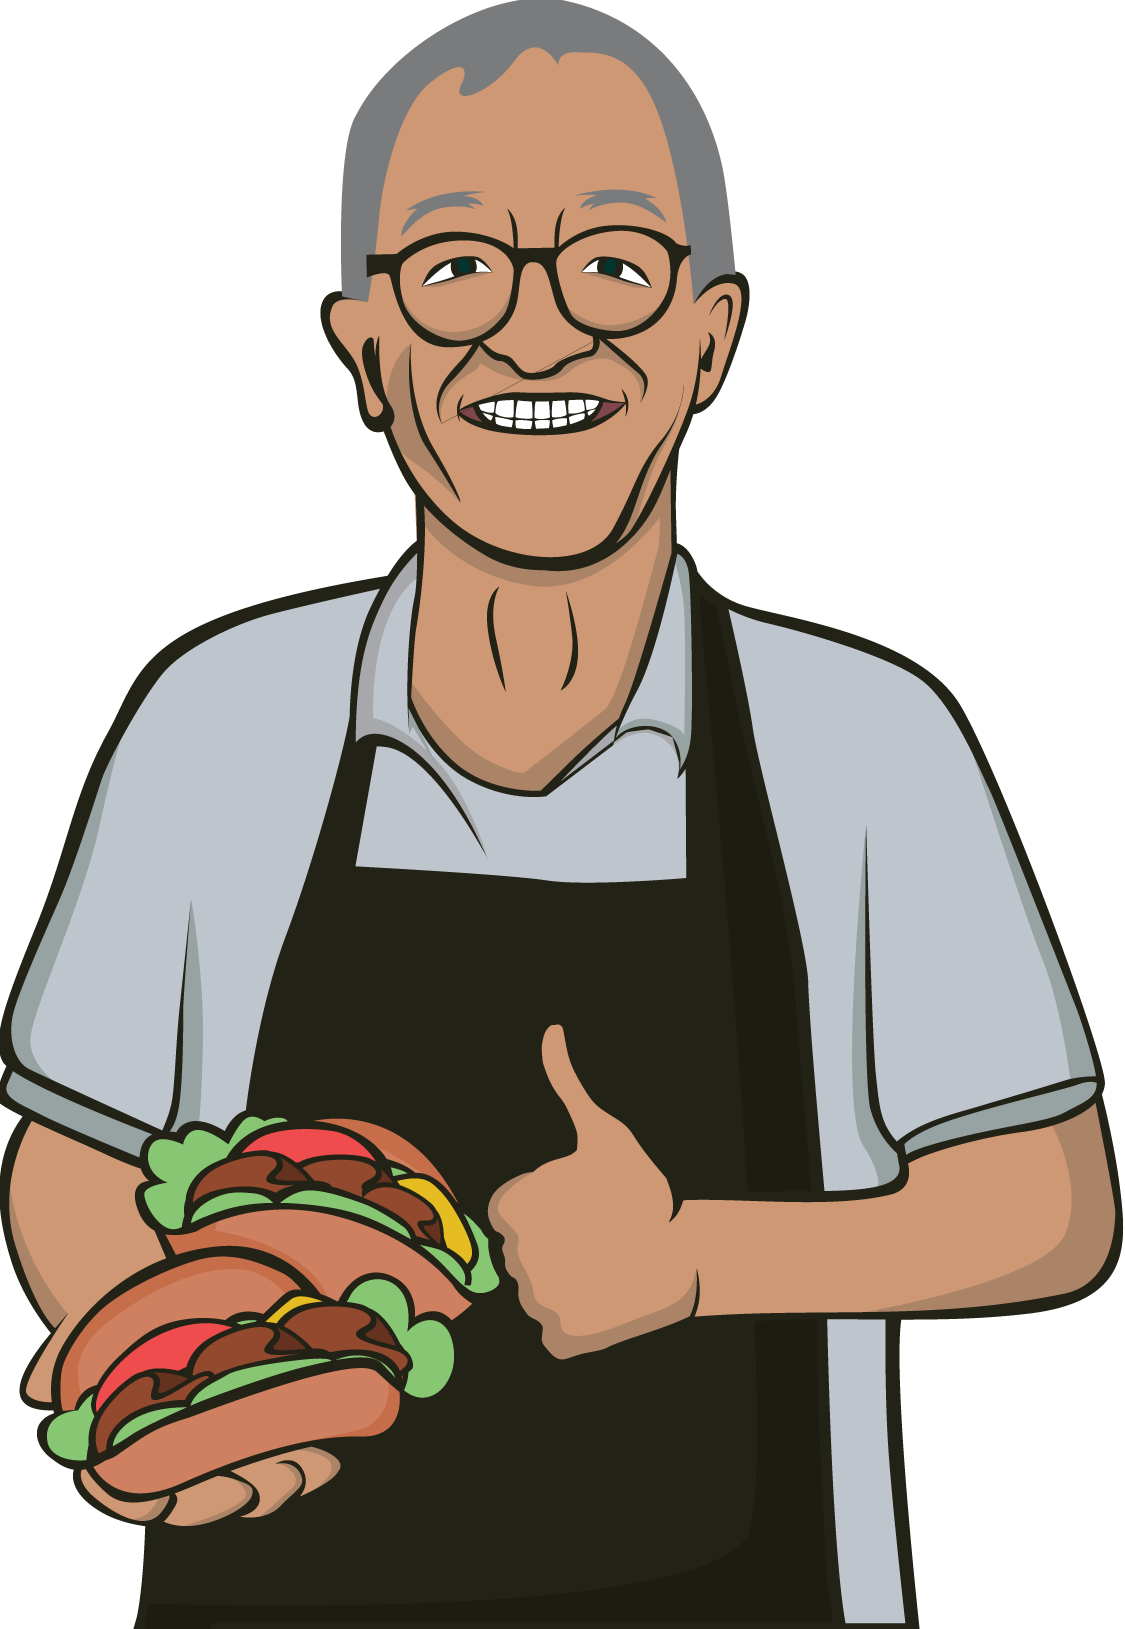
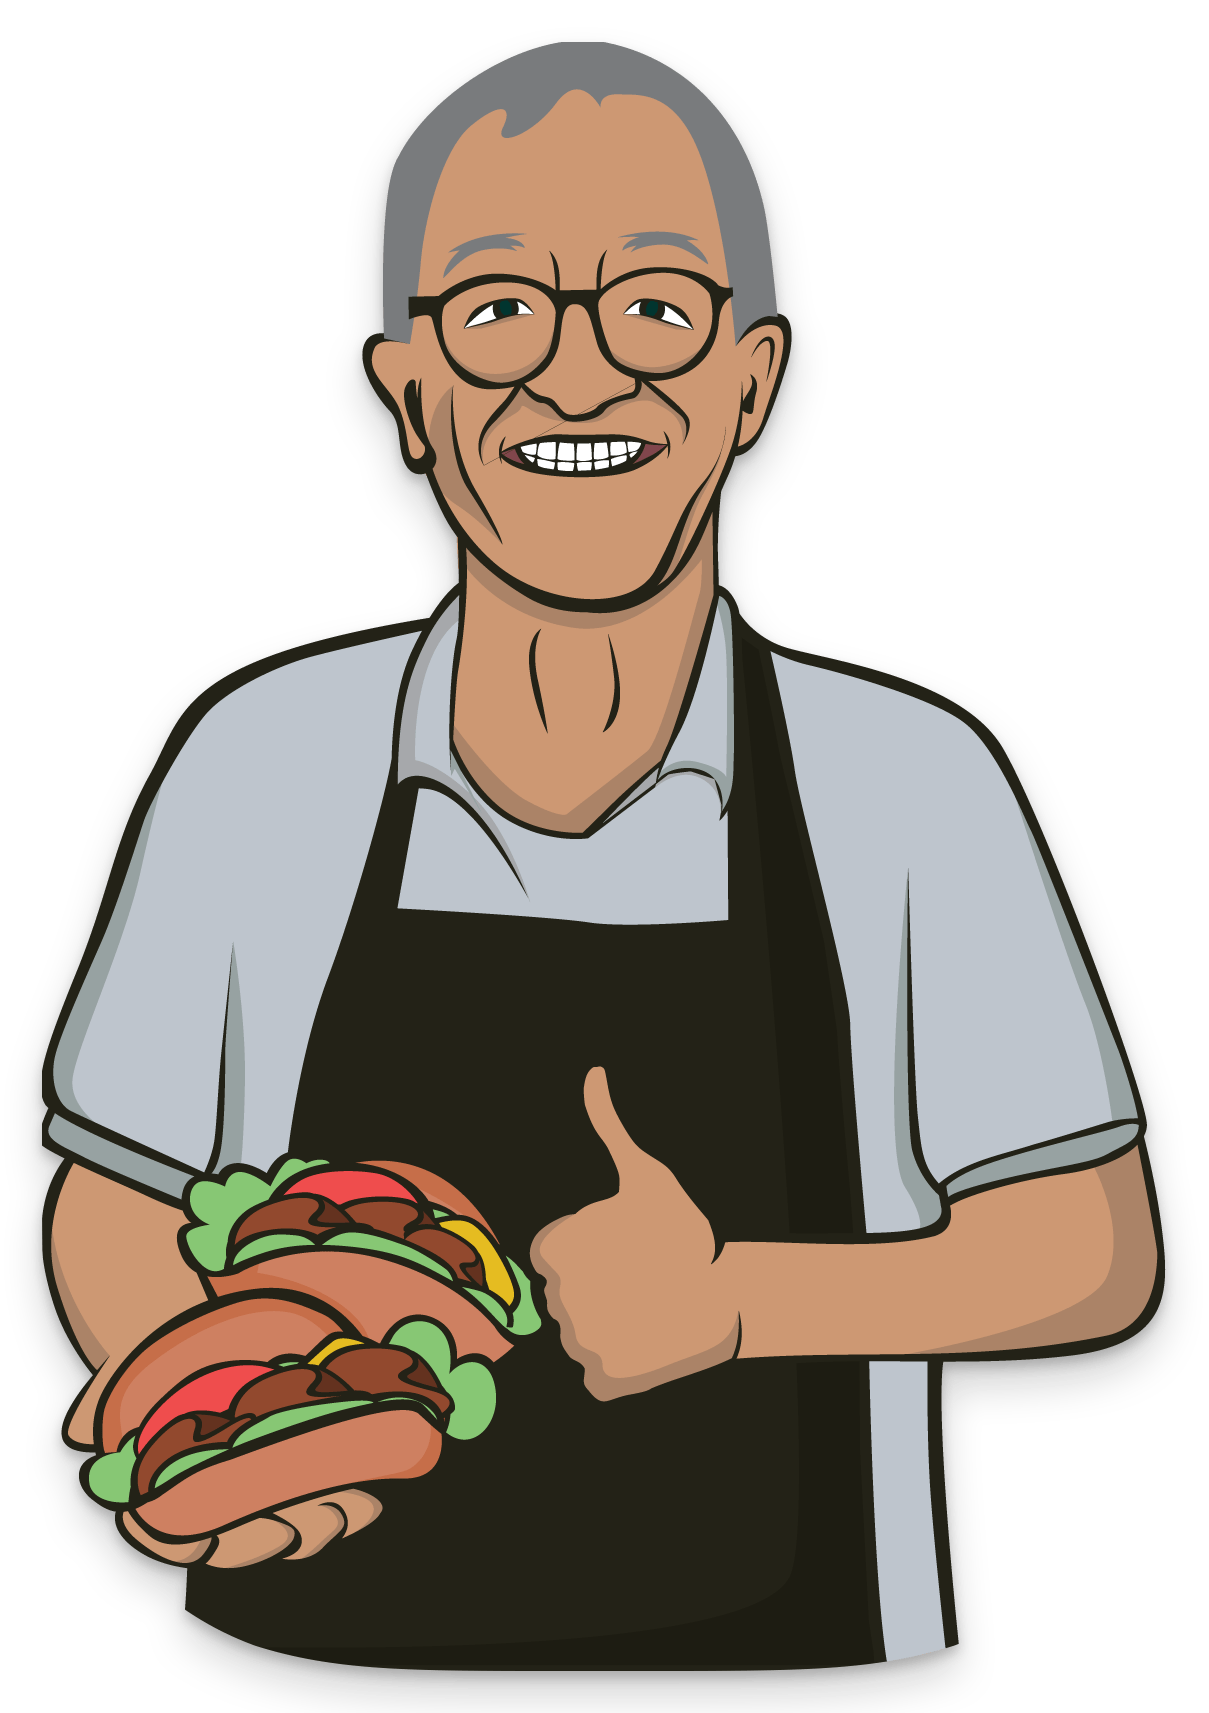
docs: Fixed invalid image refs & formatting in README
Also reduced the file sizes of 3 images by  ~80%

Changed region(s): [[0.0, 0.0, 1.0, 1.0], [0.4667, 0.6139, 0.56, 0.706], [0.4667, 0.4604, 0.5289, 0.4911]]

diff --git a/README.md b/README.md
@@ -1,6 +1,10 @@
-# Shady.ai
+<div align="center">
+<picture>
+<img alt="The Benchmark" src="https://user-images.githubusercontent.com/5500332/230834497-1a044b2f-2200-44a8-b6f2-33f587bad218.png" height=300>
+</picture>
+</div>
 
-![Dad The Benchmark](https://github.com/BrutalCoding/shady.ai/blob/main/shady_ai_flutter/macos/Runner/Assets.xcassets/AppIcon.appiconset/icon_512x512@2x.png?raw=true =300x)
+<h1 align="center">ShadyAI</h1>
 
 My take to get privacy friendly, offline AI models accessible to as many people as possible. The cutting edge offline AI models such as [Segment Anything](https://ai.facebook.com/research/publications/segment-anything/), [LLaMA](https://github.com/facebookresearch/llama) and [Whisper](https://github.com/openai/whisper) have been optimised by many other developers in various forms and sizes. The small to medium sizes are the ones I'm interested in.
 
@@ -16,11 +20,15 @@ My dad, the retired butcher.
 
 Stats: mid-70s. Great memory. Always forgets my date of birth, yet somehow remembers details about his customers from 30 years ago. Has a great sense of humour.
 
-If I could get him in touch with these AI models, It's a win for everyone. Bare in mind, there's 13.000 KM between us, so I can't just ask him to try it out.
+If I could get him in touch with these AI models, It's a win for everyone. Bare in mind, there's 13.000 KM between us, which sets the bar high for easy of use.
 
 That's him 👇
 
-![Dad The Benchmark](https://github.com/BrutalCoding/shady.ai/blob/main/shady_ai_flutter/assets/dad_the_benchmark.png?raw=true =200x)
+<div align="left">
+<picture>
+<img alt="Shady's Daddy" src="https://user-images.githubusercontent.com/5500332/230836945-0540146a-b341-4874-9f31-58e687d29053.png" height=350>
+</picture>
+</div>
 
 ## Goal
 
@@ -86,8 +94,8 @@ See the [LICENSE](LICENSE) file.
 
 Feel free to open an issue or a pull request. I'm open to any suggestions.
 
-## Preview
+## Screenshots
 
-### Mac
+### MacOS
 
-![Screenshot 1](https://raw.githubusercontent.com/BrutalCoding/shady.ai/main/shady_ai_flutter/assets/mac_screenshot_1.png =400x)
+![macos_screenshot](https://user-images.githubusercontent.com/5500332/230838110-f462d8b6-bc02-46fc-b300-86ca75bbbec4.png)
